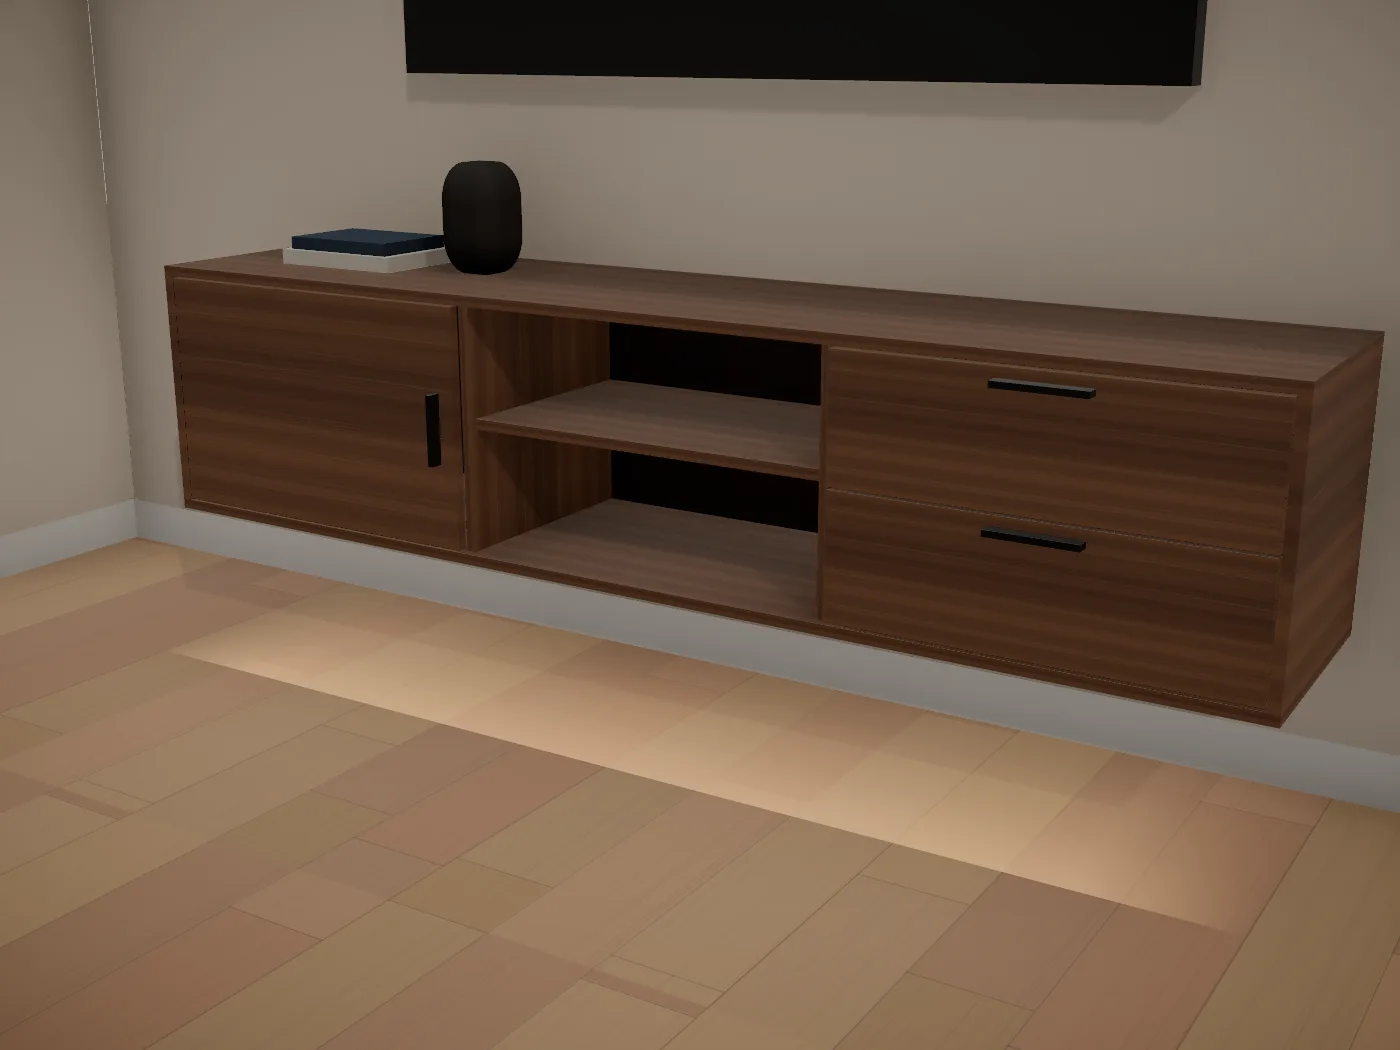
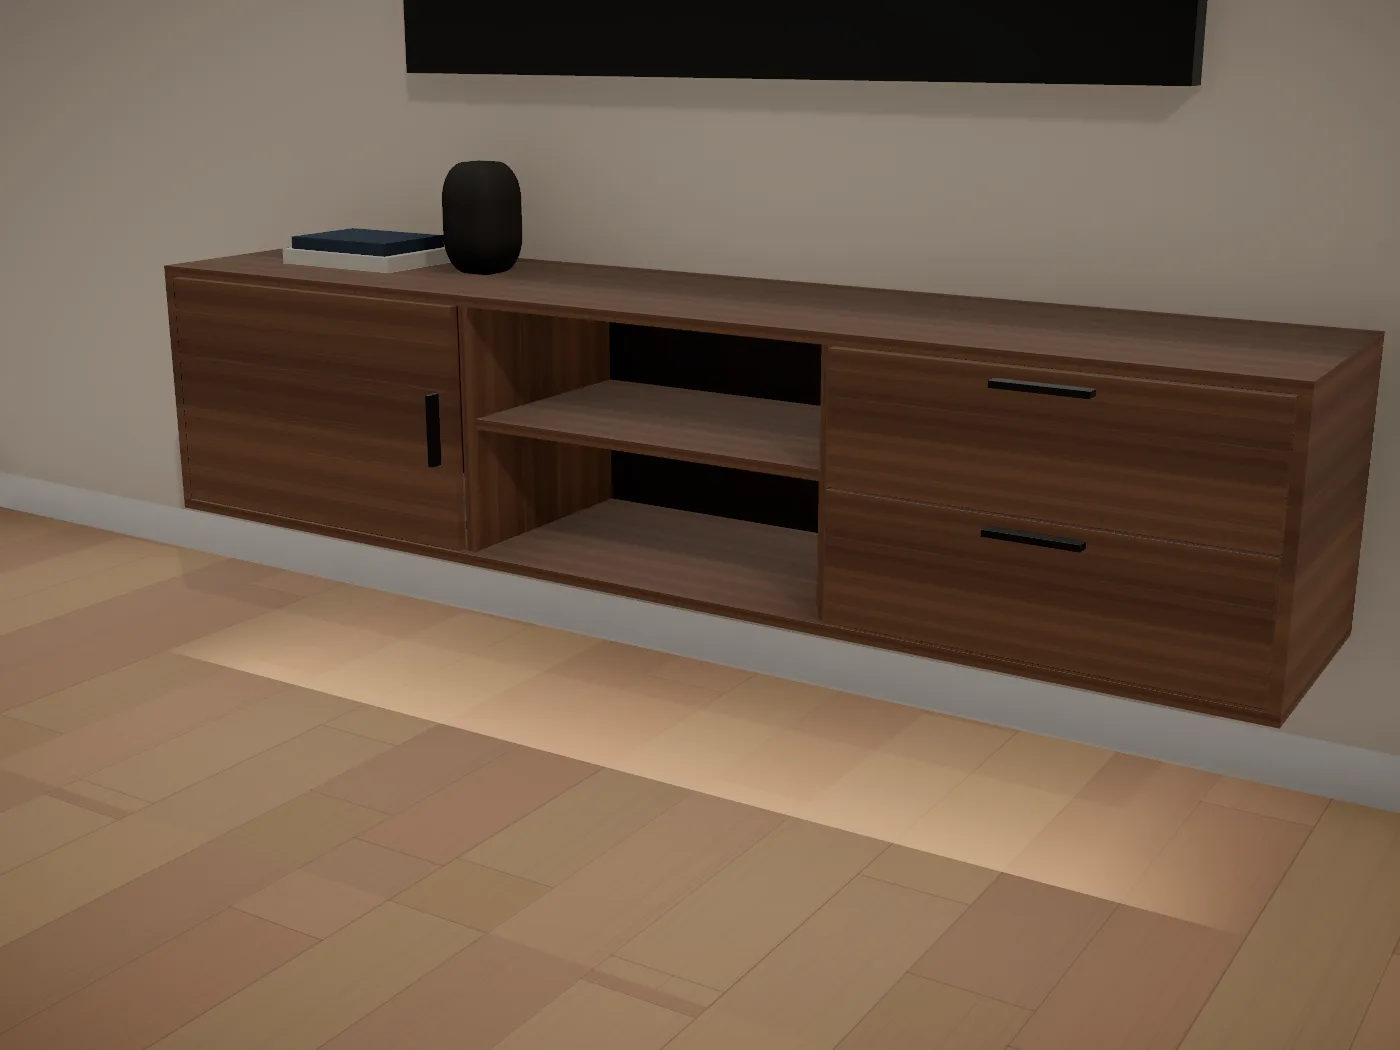
Dar volumen y textura a los ambientes de los muebles
Luz principal más fuerte y de costado con menos relleno, curva de película
en vez de la plana, sombra de apoyo bajo cada mueble y oclusión también en
equipos chicos: los muebles dejan de verse lavados y de flotar.

La tela suma variación de tono además de la trama; la alfombra es tejida y
oscura, y el piso de partida es pinotea, para que el mueble se recorte.

Claude-Session: https://claude.ai/code/session_01WMh8ZnCxr4ewVPfLHSTLEF

Changed region(s): [[0.0307, 0.0, 0.1229, 0.4876], [0.0, 0.4876, 0.0921, 0.5486]]

diff --git a/src/components/viewer/Scene.tsx b/src/components/viewer/Scene.tsx
@@ -1,6 +1,6 @@
 "use client";
 
-import { Edges, Environment, Lightformer, OrbitControls, PerformanceMonitor } from "@react-three/drei";
+import { ContactShadows, Edges, Environment, Lightformer, OrbitControls, PerformanceMonitor } from "@react-three/drei";
 import { Canvas, useFrame, useThree } from "@react-three/fiber";
 import { Bloom, EffectComposer, N8AO, SMAA, ToneMapping, Vignette } from "@react-three/postprocessing";
 import { ToneMappingMode } from "postprocessing";
@@ -137,7 +137,7 @@ function AnimDriver({ props, kit }: { props: ViewerProps; kit: MaterialKit }) {
     }
     kit.glass.opacity = GLASS_OPACITY * (1 - 0.7 * x);
     // de noche el ambiente baja para que se luzcan los LED
-    scene.environmentIntensity = 1 - 0.62 * l;
+    scene.environmentIntensity = (props.confine ? 0.55 : 1) * (1 - 0.62 * l);
     bg.cur.copy(bg.studio).lerp(bg.room, anim.room.v).multiplyScalar(1 - 0.35 * l);
     scene.background = bg.cur;
   });
@@ -205,15 +205,18 @@ function sequence(
   }
 }
 
-function KeyLight({ span, shape }: { span: number; shape: WardrobeConfig["shape"] }) {
+function KeyLight({ span, shape, rich }: { span: number; shape: WardrobeConfig["shape"]; rich: boolean }) {
+  // en un ambiente armado la luz viene de un lado y el relleno baja: hay sombra y volumen
+  const keyPower = rich ? 3.1 : 2.1;
+  const fill = rich ? 0.26 : 0.55;
   const anim = useSceneAnim();
   const key = useRef<THREE.DirectionalLight>(null);
   const hemi = useRef<THREE.HemisphereLight>(null);
   const side = shape === "l-right" ? -1 : 1;
   useFrame(() => {
     const night = 1 - 0.7 * anim.lights.v;
-    if (key.current) key.current.intensity = 2.1 * night;
-    if (hemi.current) hemi.current.intensity = 0.55 * night;
+    if (key.current) key.current.intensity = keyPower * night;
+    if (hemi.current) hemi.current.intensity = fill * night;
   });
   const reach = Math.max(3, span * MM);
   return (
@@ -454,7 +457,9 @@ function Capturer({ captureRef, countFrames }: { captureRef?: ViewerProps["captu
   return null;
 }
 
-function Effects({ hq, studio }: { hq: boolean; studio: boolean }) {
+function Effects({ hq, studio, rich }: { hq: boolean; studio: boolean; rich: boolean }) {
+  // en un ambiente armado, una curva de película: negros más profundos y color más lleno
+  const tone = rich ? ToneMappingMode.ACES_FILMIC : ToneMappingMode.AGX;
   // sobre fondo liso el fondo es más brillante que cualquier superficie: el
   // umbral del brillo sube para que solo brillen los LED, y la viñeta se afloja
   const threshold = studio ? 2.4 : 0.92;
@@ -463,20 +468,40 @@ function Effects({ hq, studio }: { hq: boolean; studio: boolean }) {
   if (hq)
     return (
       <EffectComposer multisampling={4} enableNormalPass={false}>
-        <N8AO aoRadius={0.45} intensity={2.4} distanceFalloff={0.9} quality="medium" />
+        <N8AO aoRadius={rich ? 0.6 : 0.45} intensity={rich ? 3.4 : 2.4} distanceFalloff={0.9} quality="medium" />
         <Bloom mipmapBlur intensity={0.85} luminanceThreshold={threshold} luminanceSmoothing={0.25} radius={0.7} />
         <Vignette offset={0.3} darkness={darkness} />
-        <ToneMapping mode={ToneMappingMode.AGX} />
+        <ToneMapping mode={tone} />
       </EffectComposer>
     );
   // en equipos chicos se va la oclusión, que es lo más caro; el brillo de los LED queda
   return (
     <EffectComposer multisampling={0} enableNormalPass={false}>
+      {/* sin oclusión un tapizado parece plástico: en los ambientes armados queda, a media resolución */}
+      {rich ? <N8AO aoRadius={0.6} intensity={3} distanceFalloff={0.9} quality="performance" halfRes /> : <></>}
       <Bloom mipmapBlur intensity={0.85} luminanceThreshold={threshold} luminanceSmoothing={0.25} radius={0.7} />
       <Vignette offset={0.3} darkness={darkness} />
-      <ToneMapping mode={ToneMappingMode.AGX} />
+      <ToneMapping mode={tone} />
       <SMAA />
     </EffectComposer>
+  );
+}
+
+function Grounding({ assembly }: { assembly: Assembly }) {
+  const { min, max } = assembly.room ?? assembly.bounds;
+  const w = (max[0] - min[0]) * MM;
+  const d = (max[2] - min[2]) * MM + 1.2;
+  return (
+    <ContactShadows
+      position={[((min[0] + max[0]) / 2) * MM, 0.016, (min[2] * MM + d / 2)]}
+      scale={[w, d]}
+      resolution={512}
+      far={0.9}
+      blur={2.2}
+      opacity={0.62}
+      color="#1a120c"
+      frames={Infinity}
+    />
   );
 }
 
@@ -492,6 +517,8 @@ function Wardrobe({ props, kit }: { props: ViewerProps; kit: MaterialKit }) {
         wall={props.environment.wall}
         floor={props.environment.floor}
       />
+      {/* sombra de apoyo: lo que hace que el mueble pise el piso en vez de flotar */}
+      {props.confine && <Grounding assembly={props.assembly} />}
       {props.assembly.runs.map((run) => (
         <RunGroup key={run.index} run={run}>
           <Presence parts={run.parts}>
@@ -528,7 +555,7 @@ function SceneContents(props: ViewerProps & { hq: boolean }) {
         <Lightformer form="rect" intensity={0.7} color="#e8eef5" position={[-6, 2, 2]} rotation-y={Math.PI / 2} scale={[6, 3, 1]} />
         <Lightformer form="rect" intensity={0.9} position={[0, 1.8, 7]} scale={[8, 3, 1]} />
       </Environment>
-      <KeyLight span={span} shape={props.config.shape} />
+      <KeyLight span={span} shape={props.config.shape} rich={!!props.confine} />
       <Wardrobe props={props} kit={kit} />
       <CameraRig assembly={props.assembly} view={props.view} intro={props.intro !== false} sway={!!props.sway} framing={props.framing ?? 1} minRadius={props.confine ? 1.05 : 0} />
       <OrbitControls
@@ -547,7 +574,7 @@ function SceneContents(props: ViewerProps & { hq: boolean }) {
         minAzimuthAngle={props.confine ? -1.05 : -Infinity}
         maxAzimuthAngle={props.confine ? 1.05 : Infinity}
       />
-      <Effects hq={props.hq} studio={props.environment.mode === "studio"} />
+      <Effects hq={props.hq} studio={props.environment.mode === "studio"} rich={!!props.confine} />
       <Capturer captureRef={props.captureRef} countFrames={props.countFrames} />
     </>
   );

diff --git a/src/components/viewer/materials.ts b/src/components/viewer/materials.ts
@@ -263,10 +263,12 @@ export function createKit(bodyId: string, doorId: string, fabric = "#cdbfa9") {
       roughness: 0.92,
       metalness: 0,
       envMapIntensity: 0.3,
+      // una tela nunca es de un solo tono: manchas suaves y la trama
+      map: mottleTexture(),
       bumpMap: weaveTexture(),
-      bumpScale: 1.4,
+      bumpScale: 2.2,
       // el brillo rasante de una tela: los bordes se aclaran, como en la pana o el bouclé
-      sheen: 0.45,
+      sheen: 0.3,
       sheenRoughness: 0.6,
       sheenColor: new THREE.Color(fabric).lerp(new THREE.Color("#ffffff"), 0.22),
     }),
@@ -323,7 +325,7 @@ export function disposeKit(kit: MaterialKit) {
 
 let weave: THREE.CanvasTexture | null = null;
 /** trama de tela: un relieve fino que se repite, para que el tapizado no parezca plástico */
-function weaveTexture(): THREE.CanvasTexture {
+export function weaveTexture(): THREE.CanvasTexture {
   if (weave) return weave;
   const size = 64;
   const canvas = document.createElement("canvas");
@@ -341,4 +343,41 @@ function weaveTexture(): THREE.CanvasTexture {
   weave.repeat.set(26, 26);
   weave.anisotropy = 4;
   return weave;
+}
+
+let mottle: THREE.CanvasTexture | null = null;
+/** variación de tono de una tela: manchas grandes y suaves más un grano fino, casi blanco para multiplicar el color */
+export function mottleTexture(): THREE.CanvasTexture {
+  if (mottle) return mottle;
+  const size = 256;
+  const canvas = document.createElement("canvas");
+  canvas.width = canvas.height = size;
+  const ctx = canvas.getContext("2d")!;
+  ctx.fillStyle = "#e9e9e9";
+  ctx.fillRect(0, 0, size, size);
+  for (let i = 0; i < 90; i++) {
+    const x = Math.random() * size;
+    const y = Math.random() * size;
+    const r = 18 + Math.random() * 46;
+    const g = ctx.createRadialGradient(x, y, 0, x, y, r);
+    const dark = Math.random() < 0.5;
+    g.addColorStop(0, dark ? "rgba(150,150,150,0.11)" : "rgba(255,255,255,0.14)");
+    g.addColorStop(1, "rgba(200,200,200,0)");
+    ctx.fillStyle = g;
+    // se repite en los cuatro bordes para que la textura empalme sin costura
+    for (const dx of [-size, 0, size]) for (const dy of [-size, 0, size]) ctx.fillRect(x + dx - r, y + dy - r, 2 * r, 2 * r);
+  }
+  const img = ctx.getImageData(0, 0, size, size);
+  for (let i = 0; i < img.data.length; i += 4) {
+    const n = (Math.random() - 0.5) * 26;
+    img.data[i] += n;
+    img.data[i + 1] += n;
+    img.data[i + 2] += n;
+  }
+  ctx.putImageData(img, 0, 0);
+  mottle = new THREE.CanvasTexture(canvas);
+  mottle.wrapS = mottle.wrapT = THREE.RepeatWrapping;
+  mottle.repeat.set(1.5, 1.5);
+  mottle.colorSpace = THREE.SRGBColorSpace;
+  return mottle;
 }

diff --git a/src/components/viewer/PartNode.tsx b/src/components/viewer/PartNode.tsx
@@ -8,7 +8,7 @@ import { RoundedBoxGeometry } from "three/examples/jsm/geometries/RoundedBoxGeom
 import type { Part } from "@/lib/assembly";
 
 import { BOUNCY, clampDt, doorProgress, FIRM, spring, springFor, SpringVec, step, useSceneAnim } from "./anim";
-import type { MaterialKit } from "./materials";
+import { mottleTexture, weaveTexture, type MaterialKit } from "./materials";
 
 export const MM = 0.001;
 
@@ -89,6 +89,18 @@ function tinted(spec: string): THREE.MeshStandardMaterial {
   let m = tints.get(spec);
   if (!m) {
     const gloss = spec.startsWith("gloss:");
+    // "rug:": alfombra tejida, con trama y manchas, no un plano de color
+    if (spec.startsWith("rug:")) {
+      const map = mottleTexture().clone();
+      map.repeat.set(5, 5);
+      map.needsUpdate = true;
+      const bump = weaveTexture().clone();
+      bump.repeat.set(60, 60);
+      bump.needsUpdate = true;
+      m = new THREE.MeshStandardMaterial({ color: spec.slice(4), roughness: 1, map, bumpMap: bump, bumpScale: 3, envMapIntensity: 0.2 });
+      tints.set(spec, m);
+      return m;
+    }
     m = new THREE.MeshStandardMaterial({ color: spec.slice(spec.indexOf(":") + 1), roughness: gloss ? 0.12 : 0.92, metalness: gloss ? 0.35 : 0, envMapIntensity: gloss ? 1.1 : 0.4 });
     tints.set(spec, m);
   }
@@ -96,7 +108,7 @@ function tinted(spec: string): THREE.MeshStandardMaterial {
 }
 
 function pickMaterial(kit: MaterialKit, p: Part): THREE.Material | null {
-  if (p.material.startsWith("tint:") || p.material.startsWith("gloss:")) return tinted(p.material);
+  if (p.material.startsWith("tint:") || p.material.startsWith("gloss:") || p.material.startsWith("rug:")) return tinted(p.material);
   const along = isVertical(p) ? "v" : "u";
   switch (p.material) {
     case "none":

diff --git a/src/lib/furniture.ts b/src/lib/furniture.ts
@@ -48,8 +48,8 @@ export type FurnitureSpec = {
 };
 
 export const FABRICS = [
-  { id: "arena", name: "Lino arena", color: "#c9bba4" },
-  { id: "crudo", name: "Bouclé crudo", color: "#e4ddd0" },
+  { id: "arena", name: "Lino arena", color: "#b39f82" },
+  { id: "crudo", name: "Bouclé crudo", color: "#d8cdb9" },
   { id: "gris", name: "Gris piedra", color: "#8e8f8c" },
   { id: "grafito", name: "Grafito", color: "#45474a" },
   { id: "ocre", name: "Pana ocre", color: "#b9731f" },
@@ -306,8 +306,8 @@ function led(list: Part[], id: string, x: number, y: number, z: number, length: 
 const deco = { decor: true, noCut: true } as const;
 const BOOKS = ["#7b2f2a", "#e8e1d2", "#2f3b4a", "#b98b3e", "#d8d2c6", "#3d4a3a", "#8a8a86", "#c9b79c"];
 
-function rug(list: Part[], x: number, z: number, w: number, d: number, color = "#b9ad9b") {
-  piece(list, "deco:rug", "Alfombra", "bottom", `tint:${color}`, [x, 0, z], [w, 12, d], deco);
+function rug(list: Part[], x: number, z: number, w: number, d: number, color = "#6f6457") {
+  piece(list, "deco:rug", "Alfombra", "bottom", `rug:${color}`, [x, 0, z], [w, 14, d], deco);
 }
 /** libros parados, uno al lado del otro */
 function books(list: Part[], id: string, x: number, y: number, z: number, n: number, depth = 150) {

diff --git a/src/components/FurnitureConfigurator.tsx b/src/components/FurnitureConfigurator.tsx
@@ -47,7 +47,7 @@ export default function FurnitureConfigurator({ family }: { family: string }) {
   const [explode, setExplode] = useState(false);
   const [lights, setLights] = useState(false);
   const [view, setView] = useState<{ name: ViewName; nonce: number }>({ name: "three", nonce: 0 });
-  const [environment, setEnvironment] = useState<{ mode: "room" | "studio"; wall: string; floor: FloorType }>({ mode: "room", wall: WALL_COLORS[0].hex, floor: "madera" });
+  const [environment, setEnvironment] = useState<{ mode: "room" | "studio"; wall: string; floor: FloorType }>({ mode: "room", wall: WALL_COLORS[0].hex, floor: "pinotea" });
   const [ready, setReady] = useState(false);
   const [designId, setDesignId] = useState<string | null>(null);
   const [loaded, setLoaded] = useState(false);
